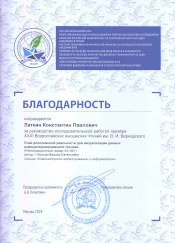
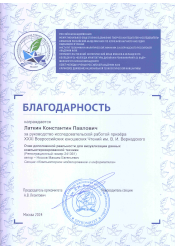
Добавление дезигна в иконки.

diff --git a/index.html b/index.html
@@ -45,12 +45,12 @@
 					<p align="center"><img src="./images/avatar.png" width="190" height="190"/></p>
 					<h1 align="center"><span class="entxt">Konstantin&nbspPavlovich&nbspLatkin</span><span class="rutxt">Латкин&nbspКонстантин&nbspПавлович</span></h1>
 					<p align="center"><span class="entxt">Doctor of Philosophy in Engineering</span><span class="rutxt">кандидат технических наук</span></p>
-					<p align="center">email: <a target="_blank" href="mailto:latkin.k.p@ya.ru">latkin.k.p@ya.ru</a></p>
-					<p align="center"><span class="entxt">contacts: <a target="_blank" href="./files/latkinkp_en.vcf">vCard link</a></span><span class="rutxt">контакты: <a target="_blank" href="./files/latkinkp_ru.vcf">vCard ссылка</a></span></p>
+					<p align="center"><img src="./images/iconEmail.png" class="icon"> email: <a target="_blank" href="mailto:latkin.k.p@ya.ru">latkin.k.p@ya.ru</a></p>
+					<p align="center"><img src="./images/iconContacts.png" class="icon"> <span class="entxt">contacts: <a target="_blank" href="./files/latkinkp_en.vcf">vCard link</a></span><span class="rutxt">контакты: <a target="_blank" href="./files/latkinkp_ru.vcf">vCard ссылка</a></span></p>
 					<br>
 					<table>
 						<tr>
-							<td><a target="_blank" href="https://pstu.ru/about-the-university/structure-and-governing-bodies/faculties/departments/obshchaya-fizika/o-kafedre/"><img src="./images/PNIPU.png" class="icon"></a></td>
+							<td><a target="_blank" href="https://pstu.ru/about-the-university/structure-and-governing-bodies/faculties/departments/obshchaya-fizika/o-kafedre/"><img src="./images/logoPnipu.png" class="logo"></a></td>
 							<td><span class="entxt">Reader, Department of General Physics, Perm National Research Polytechnic University (Perm)</span><span class="rutxt">Доцент кафедры "Общая физика", Пермский национальный исследовательский политехнический университет (г.&nbspПермь)</span></td>
 						</tr>
 					</table>
@@ -60,11 +60,11 @@
 				<!-- Вкладка SCIENCE -->
 				<div class="tab" for="tabScience">
 					<h1><span class="entxt">Links</span><span class="rutxt">Ссылки</span></h1>
-					<p>ORCID: <a target="_blank" href="https://orcid.org/0009-0000-7526-9088">0009-0000-7526-9088</a></p>
-					<p>ResearchGate: <a target="_blank" href="https://www.researchgate.net/profile/Konstantin-Latkin">Konstantin-Latkin</a></p>
-					<p>Web of Science: <a target="_blank" href="https://www.webofscience.com/wos/author/record/C-2159-2018">C-2159-2018</a></p>
-					<p>Scopus: <a target="_blank" href="https://www.scopus.com/authid/detail.uri?authorId=57188338400">57188338400</a></p>
-					<p>eLibrary: <a target="_blank" href="https://www.elibrary.ru/author_profile.asp?authorid=830102">7973-2250</a></p>
+					<p><img src="./images/iconOrhid.png" class="icon"> ORCID: <a target="_blank" href="https://orcid.org/0009-0000-7526-9088">0009-0000-7526-9088</a></p>
+					<p><img src="./images/iconResearchgate.png" class="icon"> ResearchGate: <a target="_blank" href="https://www.researchgate.net/profile/Konstantin-Latkin">Konstantin-Latkin</a></p>
+					<p><img src="./images/iconWebOfScience.png" class="icon"> Web of Science: <a target="_blank" href="https://www.webofscience.com/wos/author/record/C-2159-2018">C-2159-2018</a></p>
+					<p><img src="./images/iconScopus.png" class="icon"> Scopus: <a target="_blank" href="https://www.scopus.com/authid/detail.uri?authorId=57188338400">57188338400</a></p>
+					<p><img src="./images/iconElibrary.png" class="icon"> eLibrary: <a target="_blank" href="https://www.elibrary.ru/author_profile.asp?authorid=830102">7973-2250</a></p>
 					<h1><span class="entxt">Keywords</span><span class="rutxt">Ключевые слова</span></h1>
 					<p><span class="entxt">Fibre optics, active optical fibres, spectroscopy, automation and controlling systems, virtual reality, augmented reality</span><span class="rutxt">Волоконная оптика, активные волоконные световоды, спектроскопия, автоматизация и системы управления, виртуальная реальность, дополненная реальность</span></p>
 					<h1><span class="entxt">Articles</span><span class="rutxt">Публикации</span></h1>
@@ -113,8 +113,8 @@
 					<h1><span class="entxt">Desired Position</span><span class="rutxt">Желаемая должность</span></h1>
 					<p><span class="entxt">Researcher, research engineer, reader, physics teacher</span><span class="rutxt">Научный сотрудник, инженер-исследователь, доцент кафедры, учитель физики</span></p>
 					<h1><span class="entxt">Links</span><span class="rutxt">Ссылки</span></h1>
-					<p>LinkedIn: <a target="_blank" href="https://linkedin.com/in/latkinkp">latkinkp</a></p>
-					<p>Habr: <a target="_blank" href="https://habr.com/ru/users/latkinkp/">latkinkp</a></p>
+					<p><img src="./images/iconLinkedin.png" class="icon"> LinkedIn: <a target="_blank" href="https://linkedin.com/in/latkinkp">latkinkp</a></p>
+					<p><img src="./images/iconHabr.png" class="icon"> Habr: <a target="_blank" href="https://habr.com/ru/users/latkinkp/">latkinkp</a></p>
 					<h1><span class="entxt">Experience Summary</span><span class="rutxt">Общий стаж</span></h1>
 					<p><span class="entxt">Professional experience</span><span class="rutxt">Рабочий стаж</span>: <span class="entxt" id="experienceProfessionalEn"></span><span class="rutxt" id="experienceProfessionalRu"></span></p>
 					<p><span class="entxt">Teaching experience</span><span class="rutxt">Педагогический стаж</span>: <span class="entxt" id="experienceTeachingEn"></span><span class="rutxt" id="experienceTeachingRu"></span></p>
@@ -125,7 +125,7 @@
 								<p>
 									<table>
 										<tr>
-											<td><a target="_blank" href="https://photonics.permsc.ru/"><img src="./images/LF.png" class="icon"></a></td>
+											<td><a target="_blank" href="https://photonics.permsc.ru/"><img src="./images/logoLf.png" class="logo"></a></td>
 											<td><a target="_blank" href="https://photonics.permsc.ru/"><span class="entxt">Russian Academy of Sciences, Perm federal research center, Laboratory of Photonics (Perm)</span><span class="rutxt">Российская академия наук, Пермский федеральный исследовательский центр, Лаборатория фотоники (г.&nbspПермь)</span></a></td>
 										</tr>
 									</table>
@@ -138,7 +138,7 @@
 								<p>
 									<table>
 										<tr>
-											<td><a target="_blank" href="https://i-sensor.ru/"><img src="./images/ISENSOR.png" class="icon"></a></td>
+											<td><a target="_blank" href="https://i-sensor.ru/"><img src="./images/logoIsensor.png" class="logo"></a></td>
 											<td><a target="_blank" href="https://i-sensor.ru/"><span class="entxt">Inversion Sensor (Perm)</span><span class="rutxt">Инверсия-Сенсор (г.&nbspПермь)</span></a></td>
 										</tr>
 									</table>
@@ -151,7 +151,7 @@
 								<p>
 									<table>
 										<tr>
-											<td><a target="_blank" href="https://pnppk.ru/"><img src="./images/PNPPK.png" class="icon"></a></td>
+											<td><a target="_blank" href="https://pnppk.ru/"><img src="./images/logoPnppk.png" class="logo"></a></td>
 											<td><a target="_blank" href="https://pnppk.ru/"><span class="entxt">Perm Scientific-Industrial Instrument Making Company (Perm)</span><span class="rutxt">Пермская научно-производственная приборостроительная компания (г.&nbspПермь)</span></a></td>
 										</tr>
 									</table>
@@ -167,7 +167,7 @@
 								<p>
 									<table>
 										<tr>
-											<td><a target="_blank" href="https://pstu.ru/about-the-university/structure-and-governing-bodies/faculties/departments/obshchaya-fizika/o-kafedre/"><img src="./images/PNIPU.png" class="icon"></a></td>
+											<td><a target="_blank" href="https://pstu.ru/about-the-university/structure-and-governing-bodies/faculties/departments/obshchaya-fizika/o-kafedre/"><img src="./images/logoPnipu.png" class="logo"></a></td>
 											<td><a target="_blank" href="https://pstu.ru/about-the-university/structure-and-governing-bodies/faculties/departments/obshchaya-fizika/o-kafedre/"><span class="entxt">Perm National Research Polytechnic University, Deparment of General Physics (Perm)</span><span class="rutxt">Пермский национальный исследовальский политехнический университет, кафедра "Общая физика" (г.&nbspПермь)</span></a></td>
 										</tr>
 									</table>
@@ -181,7 +181,7 @@
 								<p>
 									<table>
 										<tr>
-											<td><a target="_blank" href="https://pstu.ru/about-the-university/structure-and-governing-bodies/faculties/departments/obshchaya-fizika/o-kafedre/"><img src="./images/PNIPU.png" class="icon"></a></td>
+											<td><a target="_blank" href="https://pstu.ru/about-the-university/structure-and-governing-bodies/faculties/departments/obshchaya-fizika/o-kafedre/"><img src="./images/logoPnipu.png" class="logo"></a></td>
 											<td><a target="_blank" href="https://pstu.ru/about-the-university/structure-and-governing-bodies/faculties/departments/obshchaya-fizika/o-kafedre/"><span class="entxt">Perm National Research Polytechnic University, Deparment of General Physics (Perm)</span><span class="rutxt">Пермский национальный исследовальский политехнический университет, кафедра "Общая физика" (г.&nbspПермь)</span></a></td>
 										</tr>
 									</table>
@@ -195,7 +195,7 @@
 								<p>
 									<table>
 										<tr>
-											<td><a target="_blank" href="https://pstu.ru/about-the-university/structure-and-governing-bodies/faculties/departments/obshchaya-fizika/o-kafedre/"><img src="./images/PNIPU.png" class="icon"></a></td>
+											<td><a target="_blank" href="https://pstu.ru/about-the-university/structure-and-governing-bodies/faculties/departments/obshchaya-fizika/o-kafedre/"><img src="./images/logoPnipu.png" class="logo"></a></td>
 											<td><a target="_blank" href="https://pstu.ru/about-the-university/structure-and-governing-bodies/faculties/departments/obshchaya-fizika/o-kafedre/"><span class="entxt">Perm National Research Polytechnic University, Deparment of General Physics (Perm)</span><span class="rutxt">Пермский национальный исследовальский политехнический университет, кафедра "Общая физика" (г.&nbspПермь)</span></a></td>
 										</tr>
 									</table>
@@ -213,7 +213,7 @@
 								<p>
 									<table>
 										<tr>
-											<td><a target="_blank" href="https://school-progress-kazan.ru/"><img src="./images/PROGRESS.png" class="icon"></a></td>
+											<td><a target="_blank" href="https://school-progress-kazan.ru/"><img src="./images/logoProgress.png" class="logo"></a></td>
 											<td><a target="_blank" href="https://school-progress-kazan.ru/"><span class="entxt">Progress School (Kazan)</span><span class="rutxt">Образовательное частное учреждение "Прогресс" (г.&nbspКазань)</span></a></td>
 										</tr>
 									</table>
@@ -226,7 +226,7 @@
 								<p>
 									<table>
 										<tr>
-											<td><a target="_blank" href="https://engineerschool.permedu.ru/"><img src="./images/ENGSCHOOL.png" class="icon"></a></td>
+											<td><a target="_blank" href="https://engineerschool.permedu.ru/"><img src="./images/logoEngSchool.png" class="logo"></a></td>
 											<td><a target="_blank" href="https://engineerschool.permedu.ru/"><span class="entxt">Perm Engineering School (Perm)</span><span class="rutxt">Инженерная школа им. М.&nbspЮ.&nbspЦирульникова (г.&nbspПермь)</span></a></td>
 										</tr>
 									</table>

diff --git a/style.css b/style.css
@@ -120,7 +120,7 @@ input[type="radio"]
 
 #fontSmall:checked ~ .tabs h1
 {
-	font-size: 19px;
+	font-size: 18px;
 }
 
 
@@ -134,6 +134,20 @@ input[type="radio"]
 #fontSmall:checked ~ .tabs .text
 {
 	font-size: 15px;
+}
+
+
+#fontLarge:checked ~ .tabs .icon
+{
+  width: 16px;
+  height: 16px;
+}
+
+
+#fontSmall:checked ~ .tabs .icon
+{
+  width: 13px;
+  height: 13px;
 }
 
 
@@ -192,13 +206,13 @@ input[type="radio"]
 }
 
 
-/* Иконки ***************************************/
+/* Иконки и логотипы ***************************************/
 
 
-.icon
+.logo
 {
-  width: 75px;
-  height: 75px;
+  width: 70px;
+  height: 70px;
   margin: 6px;
 }
 
